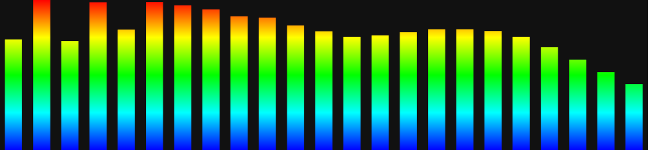
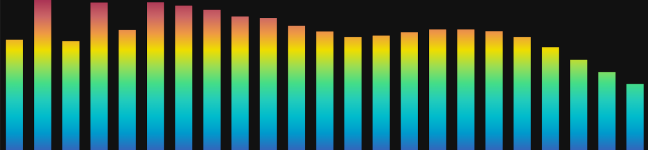
New colors for the 'prism' and 'rainbow' built-in gradients.

diff --git a/src/audioMotion-analyzer.js b/src/audioMotion-analyzer.js
@@ -45,7 +45,8 @@ const CANVAS_BACKGROUND_COLOR  = '#000',
 	  SCALE_MEL                = 'mel';
 
 // built-in gradients
-const GRADIENTS = [
+const PRISM = [ '#a35', '#c66', '#e94', '#ed0', '#9d5', '#4d8', '#2cb', '#0bc', '#09c', '#36b' ],
+	  GRADIENTS = [
 	  [ 'classic', {
 			colorStops: [
 				'hsl( 0, 100%, 50% )',
@@ -54,25 +55,11 @@ const GRADIENTS = [
 			]
 	  }],
 	  [ 'prism', {
-			colorStops: [
-				'hsl( 0, 100%, 50% )',
-				'hsl( 60, 100%, 50% )',
-				'hsl( 120, 100%, 50% )',
-				'hsl( 180, 100%, 50% )',
-				'hsl( 240, 100%, 50% )'
-			]
+			colorStops: PRISM
 	  }],
 	  [ 'rainbow', {
 			dir: 'h',
-			colorStops: [
-				'hsl( 0, 100%, 50% )',
-				'hsl( 60, 100%, 50% )',
-				'hsl( 120, 100%, 50% )',
-				'hsl( 180, 100%, 47% )',
-				'hsl( 240, 100%, 58% )',
-				'hsl( 300, 100%, 50% )',
-				'hsl( 360, 100%, 50% )'
-			]
+			colorStops: [ ...PRISM, '#639', '#817' ]
 	  }],
 	  [ 'orangered', {
 	  		bgColor: '#3e2f29',

diff --git a/README.md b/README.md
@@ -1300,7 +1300,8 @@ document.getElementById('stop').addEventListener( 'click', () => myAudio.pause()
 * [Equations for equal-tempered scale frequencies](http://pages.mtu.edu/~suits/NoteFreqCalcs.html)
 * [Making Audio Reactive Visuals](https://www.airtightinteractive.com/2013/10/making-audio-reactive-visuals/)
 * The font used in audioMotion's logo is [Orbitron](https://fonts.google.com/specimen/Orbitron) by Matt McInerney
-* This documentation website is powered by [GitHub Pages](https://pages.github.com/), [docsify](https://docsify.js.org/) and [docsify-themeable](https://jhildenbiddle.github.io/docsify-themeable).
+* The _prism_ and _rainbow_ gradients are based on the [12-bit rainbow palette](https://iamkate.com/data/12-bit-rainbow/) by Kate Morley
+* This documentation website is powered by [GitHub Pages](https://pages.github.com/), [docsify](https://docsify.js.org/) and [docsify-themeable](https://jhildenbiddle.github.io/docsify-themeable)
 
 
 ## Changelog
